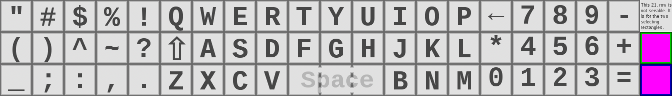
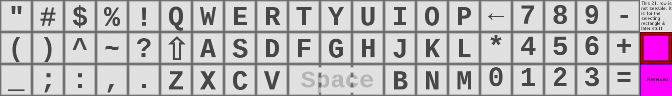
Removed the "pressed" area. Just makes the stuff more complex without a good reason. ;)

Changed region(s): [[0.9375, 0.0, 1.0, 0.6875], [0.9375, 0.7812, 1.0, 0.8438], [0.9375, 0.9688, 1.0, 1.0]]

diff --git a/sparrowCore.c b/sparrowCore.c
@@ -47,7 +47,6 @@ int sp_axis_was_used[SP_INPUT_AXIS_COUNT];
 SDL_Surface* spVirtualKeyboard = NULL;
 SDL_Surface* spVirtualKeyboardInternal = NULL;
 SDL_Surface* spVirtualKeyboardSelect = NULL;
-SDL_Surface* spVirtualKeyboardPress = NULL;
 int spVirtualKeyboardState = SP_VIRTUAL_KEYBOARD_NEVER;
 Sint32 spVirtualKeyboardMask = 0;
 Sint32 spVirtualKeyboardX = 5; //Q
@@ -1623,8 +1622,6 @@ PREFIX void spSetVirtualKeyboard(int state,int x,int y,SDL_Surface* design)
 		spDeleteSurface(spVirtualKeyboardInternal);
 	if (spVirtualKeyboardSelect)
 		spDeleteSurface(spVirtualKeyboardSelect);
-	if (spVirtualKeyboardPress)
-		spDeleteSurface(spVirtualKeyboardPress);
 	if (design == NULL)
 	{
 		spVirtualKeyboard = NULL;
@@ -1633,13 +1630,10 @@ PREFIX void spSetVirtualKeyboard(int state,int x,int y,SDL_Surface* design)
 	}
 	spVirtualKeyboard = spCreateSurface(x,y);
 	spVirtualKeyboardInternal = spCreateSurface(x,y);
-	spVirtualKeyboardPress = spCreateSurface(x/20,y/3);
 	spVirtualKeyboardSelect = spCreateSurface(x/20,y/3);
 	
 	spInternalZoomBlit(design,0,0,(design->w/21)*20,design->h,spVirtualKeyboardInternal,0,0,x,y);
-	spInternalZoomBlit(design,(design->w/21)*20,design->h/3*1,(design->w/21),design->h/3,spVirtualKeyboardPress,0,0,x/20,y/3);
-	spInternalZoomBlit(design,(design->w/21)*20,design->h/3*2,(design->w/21),design->h/3,spVirtualKeyboardSelect,0,0,x/20,y/3);
-	SDL_SetColorKey( spVirtualKeyboardPress, SDL_SRCCOLORKEY, SP_ALPHA_COLOR );
+	spInternalZoomBlit(design,(design->w/21)*20,design->h/3*1,(design->w/21),design->h/3,spVirtualKeyboardSelect,0,0,x/20,y/3);
 	SDL_SetColorKey( spVirtualKeyboardSelect, SDL_SRCCOLORKEY, SP_ALPHA_COLOR );
 	
 	SDL_BlitSurface(spVirtualKeyboardInternal,NULL,spVirtualKeyboard,NULL);
